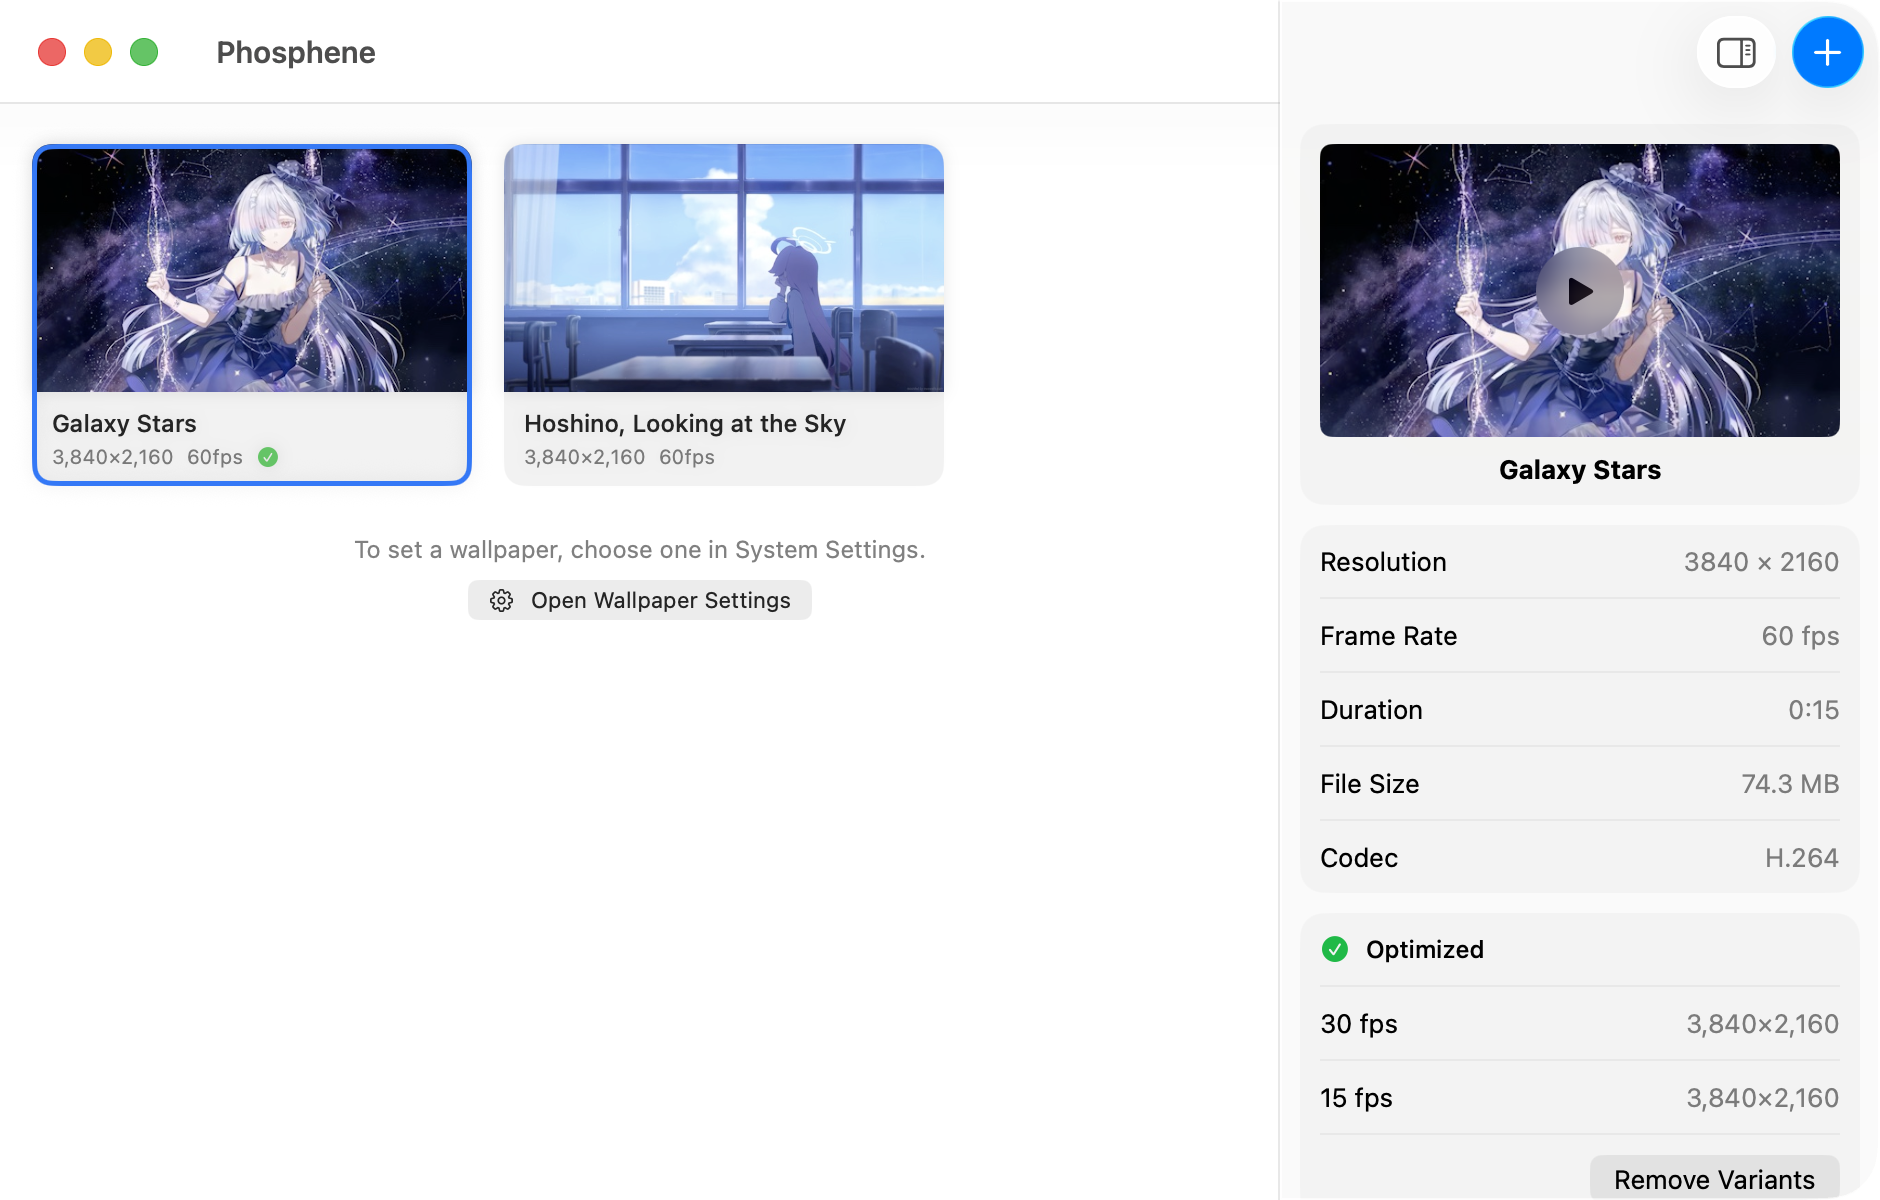
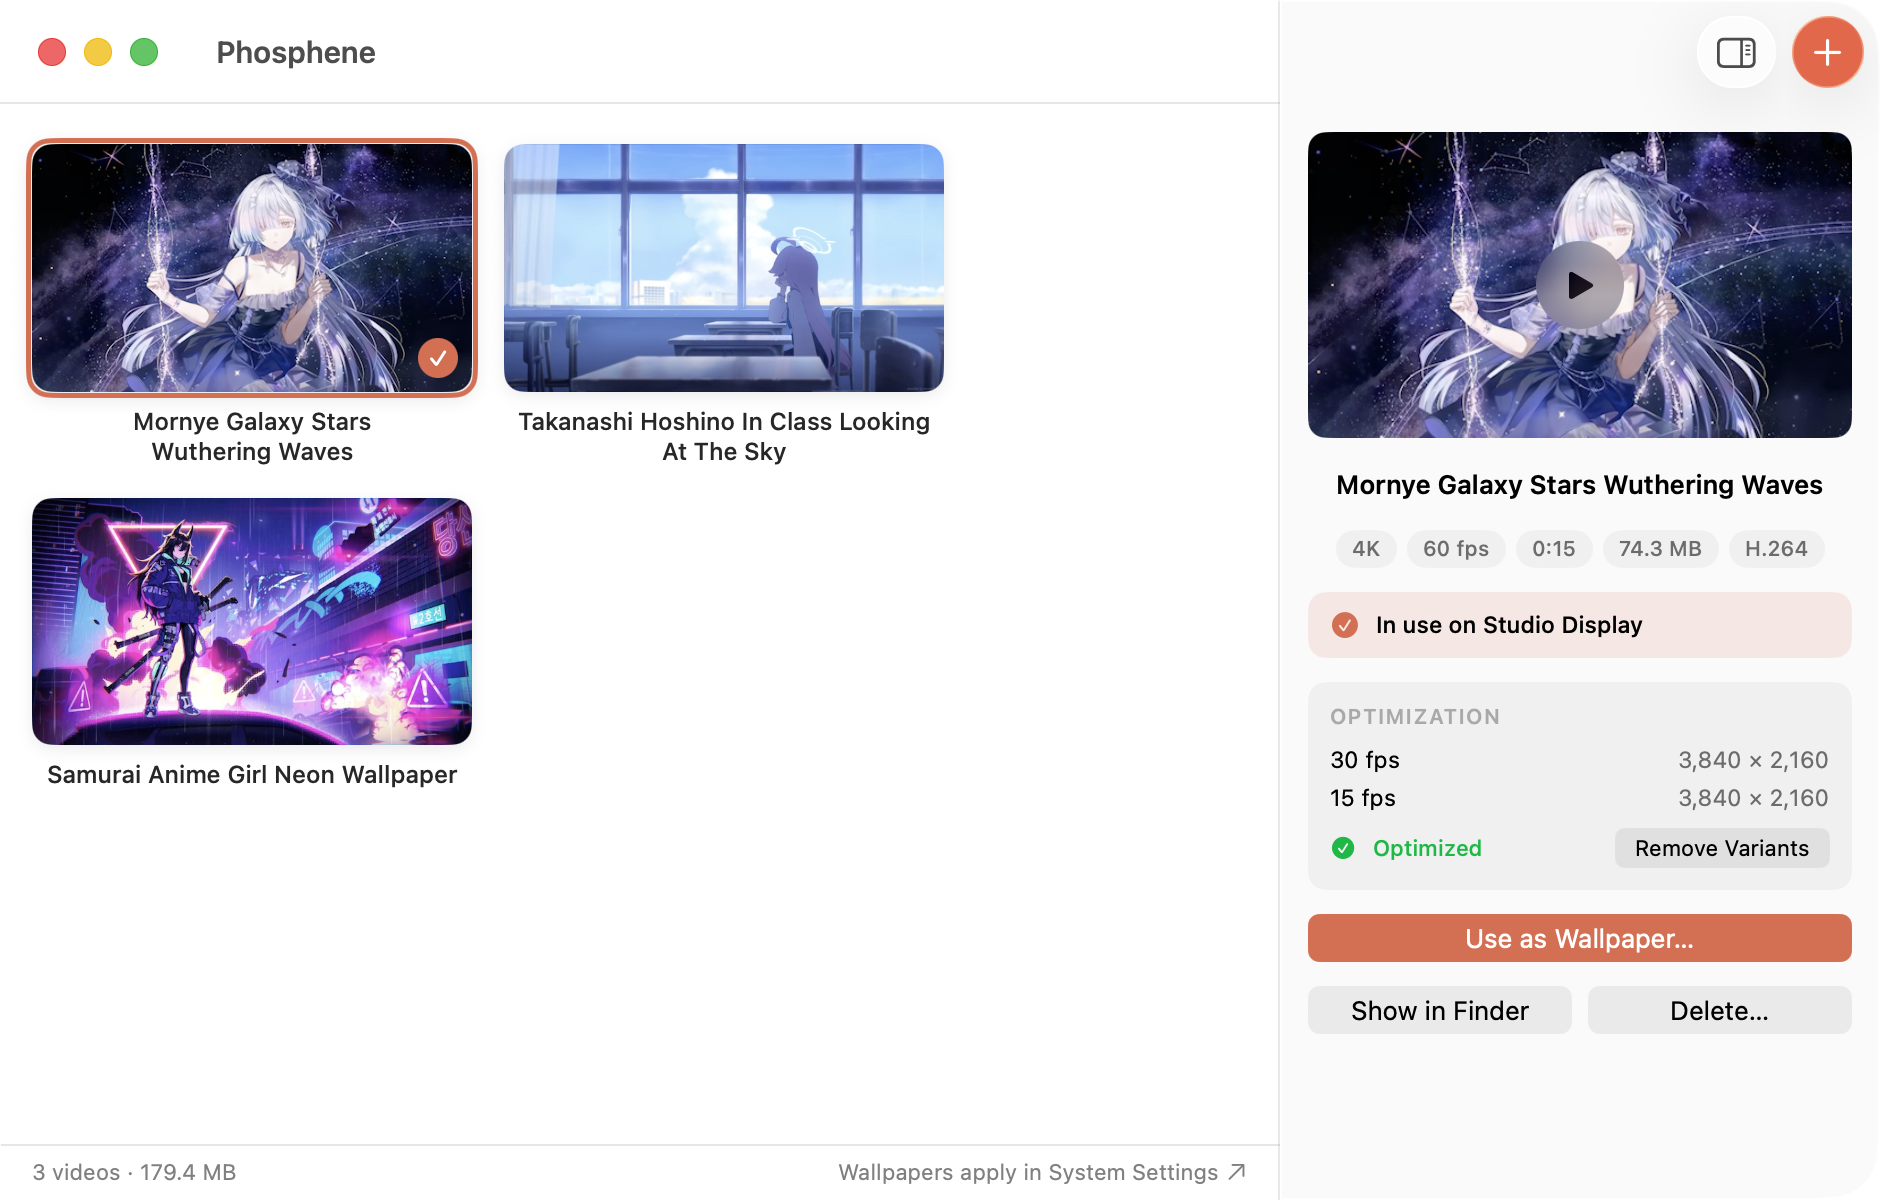
Refresh the README screenshots for the 1.4 redesign
Recaptured from the screenshot gallery stage: the popover in both
appearances and the Library window, with the alt text updated to
describe the new layouts.

Claude-Session: https://claude.ai/code/session_011dBYMxn1u2GP8BKkWT8QfU

diff --git a/README.md b/README.md
@@ -12,8 +12,8 @@
 
 <table>
   <tr>
-    <td align="center" width="40%"><picture><source media="(prefers-color-scheme: dark)" srcset=".github/phosphene-popover-dark.png"><img src=".github/phosphene-popover.png" alt="The menu bar popover — the current wallpaper previewing live, its name and Playing status, and rows for Manage Library, Wallpaper Settings, Restart Wallpaper Agent, and Check for Updates" width="270"></picture><br><sub><b>the menu bar</b> ・ preview, pause, switch displays</sub></td>
-    <td align="center" width="60%"><img src=".github/phosphene-library.png" alt="The Library window — a grid of imported videos with the active one selected, and an inspector showing resolution, frame rate, duration, file size, codec, and pre-rendered variants" width="600"><br><sub><b>your library</b> ・ import, inspect, and optimize your videos</sub></td>
+    <td align="center" width="40%"><picture><source media="(prefers-color-scheme: dark)" srcset=".github/phosphene-popover-dark.png"><img src=".github/phosphene-popover.png" alt="The menu bar popover — the current wallpaper previewing live with its name and Playing status, an Everywhere / Lock Screen / Paused playback control, setting toggles, and a footer with version, Library, and Choose chips" width="270"></picture><br><sub><b>the menu bar</b> ・ preview, pause, switch displays</sub></td>
+    <td align="center" width="60%"><img src=".github/phosphene-library.png" alt="The Library window — a grid of imported videos with the wallpaper in use badged and selected, and an inspector with an editable name, spec chips, optimized variants, and a Use as Wallpaper button" width="600"><br><sub><b>your library</b> ・ import, inspect, and optimize your videos</sub></td>
   </tr>
 </table>
 
